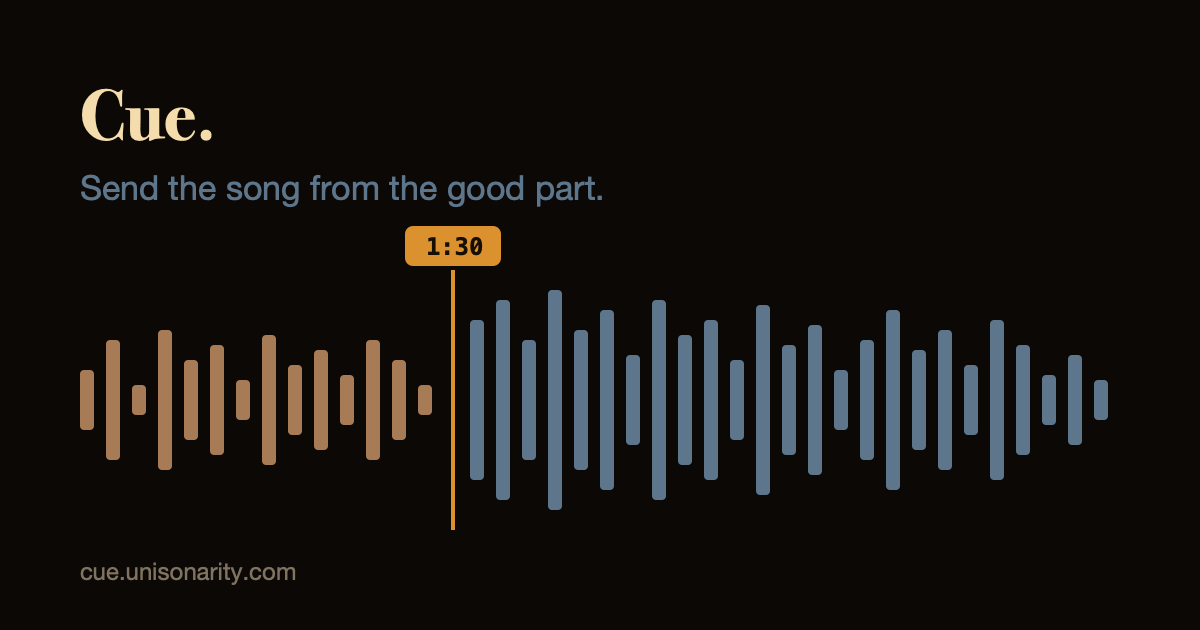
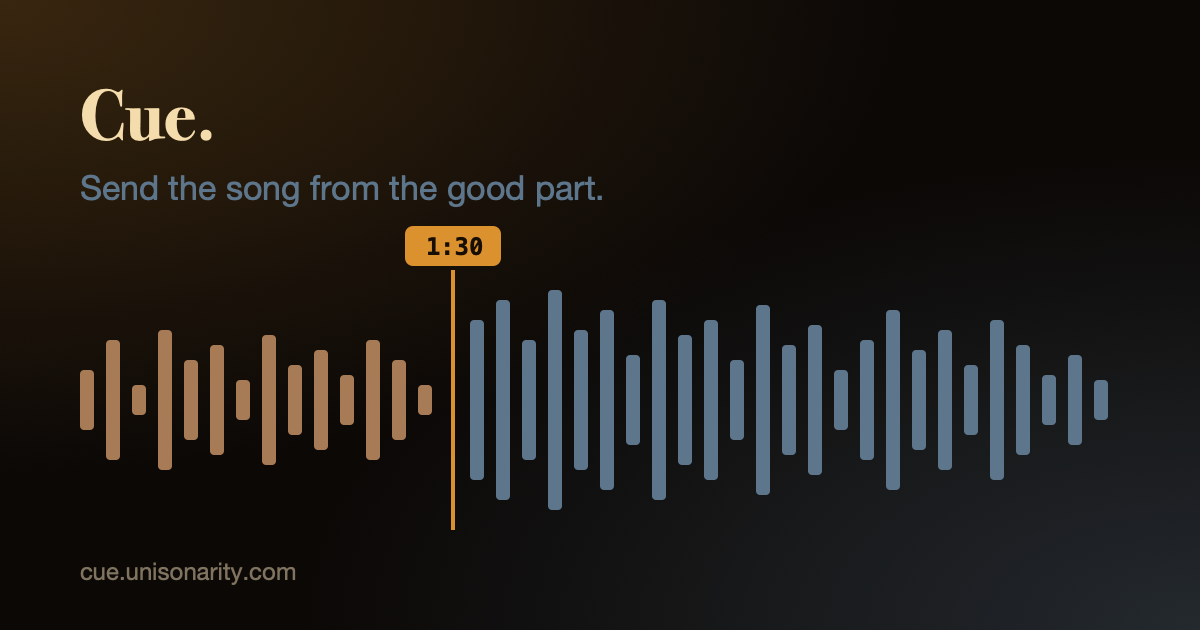
Color pass to live: split glows, cue line, gradient button, example link, dev badge

Changed region(s): [[0.0, 0.0, 0.37, 0.3619], [0.6783, 0.6937, 1.0, 1.0]]

diff --git a/index.html b/index.html
@@ -23,14 +23,15 @@
    amber/copper on one side, steel blue on the other. Display face echoes the covers' Bodoni titles. */
 :root{
   --ink:#0b0806; --panel:#16110c; --line:#2d251d; --text:#f5dcac; --muted:#bfae8f; --dim:#80735f;
-  --cue:#da912e; --cue-ink:#160d03; --steel:#5d768c; --steel-dim:#3a4a58; --warn:#e3a06a;
+  --cue:#da912e; --cue-ink:#160d03; --copper:#a77b55; --steel:#5d768c; --steel-dim:#3a4a58; --warn:#e3a06a;
   --display:"Bodoni Moda", "Bodoni 72", Didot, Georgia, "Times New Roman", serif;
   --body:"Instrument Sans", system-ui, -apple-system, "Segoe UI", sans-serif;
   --mono:ui-monospace, "SF Mono", Menlo, Consolas, monospace;
 }
 *{box-sizing:border-box}
 html{-webkit-text-size-adjust:100%}
-body{margin:0;background:var(--ink);color:var(--text);font-family:var(--body);font-size:16px;line-height:1.5;
+/* The covers split warm amber against steel blue. The page carries that as two soft glows on the warm black. */
+body{margin:0;background:radial-gradient(70% 55% at 0% 0%, rgba(218,145,46,.17), transparent 72%), radial-gradient(70% 55% at 100% 100%, rgba(93,118,140,.22), transparent 72%), var(--ink);color:var(--text);font-family:var(--body);font-size:16px;line-height:1.5;
   padding-block:16px;padding-left:max(20px,env(safe-area-inset-left,0px));padding-right:max(20px,env(safe-area-inset-right,0px))}
 .wrap{max-width:560px;margin:0 auto;display:flex;flex-direction:column;gap:20px;min-height:calc(100svh - 32px)}
 a{color:var(--cue);text-underline-offset:3px}
@@ -41,6 +42,7 @@ h1{font-family:var(--display);font-weight:600;margin:0;text-wrap:balance;font-si
 .top{display:flex;justify-content:space-between;align-items:baseline;gap:16px}
 .mark{font-family:var(--display);font-weight:600;font-size:1.45rem;color:var(--text);text-decoration:none}
 .mark i{font-style:normal;color:var(--cue)}
+.devtag{font-family:var(--mono);font-size:.62rem;letter-spacing:.08em;text-transform:uppercase;vertical-align:middle;margin-left:6px;padding:2px 6px;border-radius:4px;background:var(--steel-dim);color:var(--text)}
 .by{color:var(--muted);font-size:.72rem;text-transform:uppercase;letter-spacing:.1em}.by a{color:var(--text);text-decoration-color:var(--steel)}
 
 .lede{color:var(--muted);font-size:1.02rem}
@@ -48,8 +50,12 @@ h1{font-family:var(--display);font-weight:600;margin:0;text-wrap:balance;font-si
 label.l{display:block;font-size:.74rem;letter-spacing:.08em;text-transform:uppercase;color:var(--muted);margin-bottom:6px}
 input[type=text]{width:100%;font:inherit;font-size:1rem;color:var(--text);background:var(--panel);border:1px solid var(--line);border-radius:10px;padding:13px 14px;min-width:0}
 input[type=text]::placeholder{color:var(--dim)}
-button,.btn{font:inherit;font-weight:600;border:0;border-radius:10px;padding:14px 18px;cursor:pointer;background:var(--cue);color:var(--cue-ink);text-align:center;text-decoration:none;display:inline-block}
+button,.btn{font:inherit;font-weight:600;border:0;border-radius:10px;padding:14px 18px;cursor:pointer;background:linear-gradient(180deg,#e8a23a,#cf8524);color:var(--cue-ink);text-align:center;text-decoration:none;display:inline-block;box-shadow:0 6px 18px rgba(218,145,46,.22)}
 button:hover,.btn:hover{filter:brightness(1.06)}
+.ghost,.ghost:hover{box-shadow:none}
+input[type=text]:focus{border-color:var(--cue);outline:none;box-shadow:0 0 0 3px rgba(218,145,46,.18)}
+.cueline{position:relative;height:2px;border-radius:1px;margin:2px 0 4px;background:linear-gradient(90deg,var(--copper) 0 36%,var(--steel) 36% 100%)}
+.cueline span{position:absolute;left:36%;top:-5px;width:3px;height:12px;border-radius:2px;background:var(--cue);transform:translateX(-50%);box-shadow:0 0 10px rgba(218,145,46,.6)}
 .ghost{background:transparent;color:var(--text);border:1px solid var(--steel-dim)}
 .ghost:hover{border-color:var(--steel);filter:none}
 .err{color:var(--warn);font-size:.92rem;min-height:1.2em}
@@ -83,14 +89,15 @@ details[open] summary{margin-bottom:12px}
 <div class="wrap">
 
   <header class="top">
-    <a class="mark" href="./" aria-label="Cue home">Cue<i>.</i></a>
+    <a class="mark" href="./" aria-label="Cue home">Cue<i>.</i> <span class="devtag" id="devtag" hidden>dev</span></a>
     <span class="by">by <a href="https://www.linkedin.com/pulse/unisonarity-benjamin-linford-cfa-az4yc/" target="_blank" rel="noopener">Unisonarity</a></span>
   </header>
 
   <!-- STEP 1: make -->
-  <main id="make" class="stack" style="gap:18px" hidden>
+  <main id="make" class="stack" style="gap:15px" hidden>
     <h1>Send the song from the good part.</h1>
     <p class="lede">Paste a Spotify link, choose a time, and share. They hear it from there.</p>
+    <div class="cueline" aria-hidden="true"><span></span></div>
 
     <form id="form" class="stack" autocomplete="off">
       <div>
@@ -111,6 +118,7 @@ details[open] summary{margin-bottom:12px}
       <p class="err" id="err" role="alert"></p>
       <button type="submit">Make link</button>
     </form>
+    <p class="small">Try one: <a id="example" href="./?track=3iU0ePwZpWafktyzSruGoa&t=90&n=Sun%2C%20son.&by=unisonarity">&ldquo;You Didn't Know&rdquo; from 1:30</a>.</p>
   </main>
 
   <!-- STEP 2: share -->
@@ -151,7 +159,7 @@ details[open] summary{margin-bottom:12px}
   </main>
 
   <footer class="foot">
-    <p id="footMake">Made by <a href="https://www.linkedin.com/pulse/unisonarity-benjamin-linford-cfa-az4yc/" target="_blank" rel="noopener">Unisonarity</a>. Hear the songs on <a href="https://open.spotify.com/playlist/6a1oImkmuQMOuLcPSnE5Co" target="_blank" rel="noopener">Spotify</a> or <a href="https://suno.com/playlist/faa0098b-5872-4598-9124-b0180282cb1b" target="_blank" rel="noopener">Suno</a>. Not affiliated with Spotify. Signed-in listeners hear the full song, others a short preview. Cue counts visits and button use, with no cookies and no personal data.</p>
+    <p id="footMake">Made by <a href="https://www.linkedin.com/pulse/unisonarity-benjamin-linford-cfa-az4yc/" target="_blank" rel="noopener">Unisonarity</a>. Hear the songs on <a href="https://open.spotify.com/playlist/6a1oImkmuQMOuLcPSnE5Co" target="_blank" rel="noopener">Spotify</a> or <a href="https://suno.com/playlist/faa0098b-5872-4598-9124-b0180282cb1b" target="_blank" rel="noopener">Suno</a>. Not affiliated with Spotify. No cookies, no personal data.</p>
     <p id="footPlay" hidden>Made with <a href="./">Cue</a>. <a id="makeOwn" href="./">Make your own link</a>. Not affiliated with Spotify. No cookies.</p>
   </footer>
 
@@ -161,6 +169,10 @@ details[open] summary{margin-bottom:12px}
 (function(){
   var params = new URLSearchParams(location.search);
   var $ = function(id){ return document.getElementById(id); };
+
+  /* Dev site: same file, different host. Mark it so nobody mistakes it for the live one. */
+  var isDev = /^dev\./.test(location.hostname) || /^localhost$|^127\./.test(location.hostname);
+  if(isDev){ $('devtag').hidden = false; document.title = '[dev] ' + document.title; }
 
   /* Analytics: counts visits and button use only. No cookies, no personal data, no IPs stored by us.
      GoatCounter site code goes here (for example 'cue'). Leave it empty and nothing is sent. */
@@ -216,6 +228,7 @@ details[open] summary{margin-bottom:12px}
   function showMaker(){
     $('make').hidden = false;
     ping('maker-open');
+    $('example').addEventListener('click', function(){ ping('example'); });
     $('form').addEventListener('submit', function(e){
       e.preventDefault(); $('err').textContent='';
       var sp = parseSpotify($('src').value);

diff --git a/README.md b/README.md
@@ -28,6 +28,10 @@ The page is one static HTML file. There is no server and no account.
 | `by` | `unisonarity` shows the Unisonarity credit line |
 | `s` | which share button made the link (`sms`, `email`, `whatsapp`, `x`, `facebook`, `copy`, `share`) |
 
+## Dev site
+
+Changes go to [dev.cue.unisonarity.com](https://dev.cue.unisonarity.com/) first (repo `start-time-dev`, which also carries a `robots.txt` that keeps it out of search). The page shows a small **dev** tag there. When a change is approved, the same `index.html` is pushed to `start-time`, which serves the live site.
+
 ## Privacy
 
 Cue sets no cookies and stores no personal data. If a GoatCounter site code is set in `index.html` (`var GC`), it counts page views and button presses as anonymous events and honors Do Not Track. With the code empty, nothing is sent.
